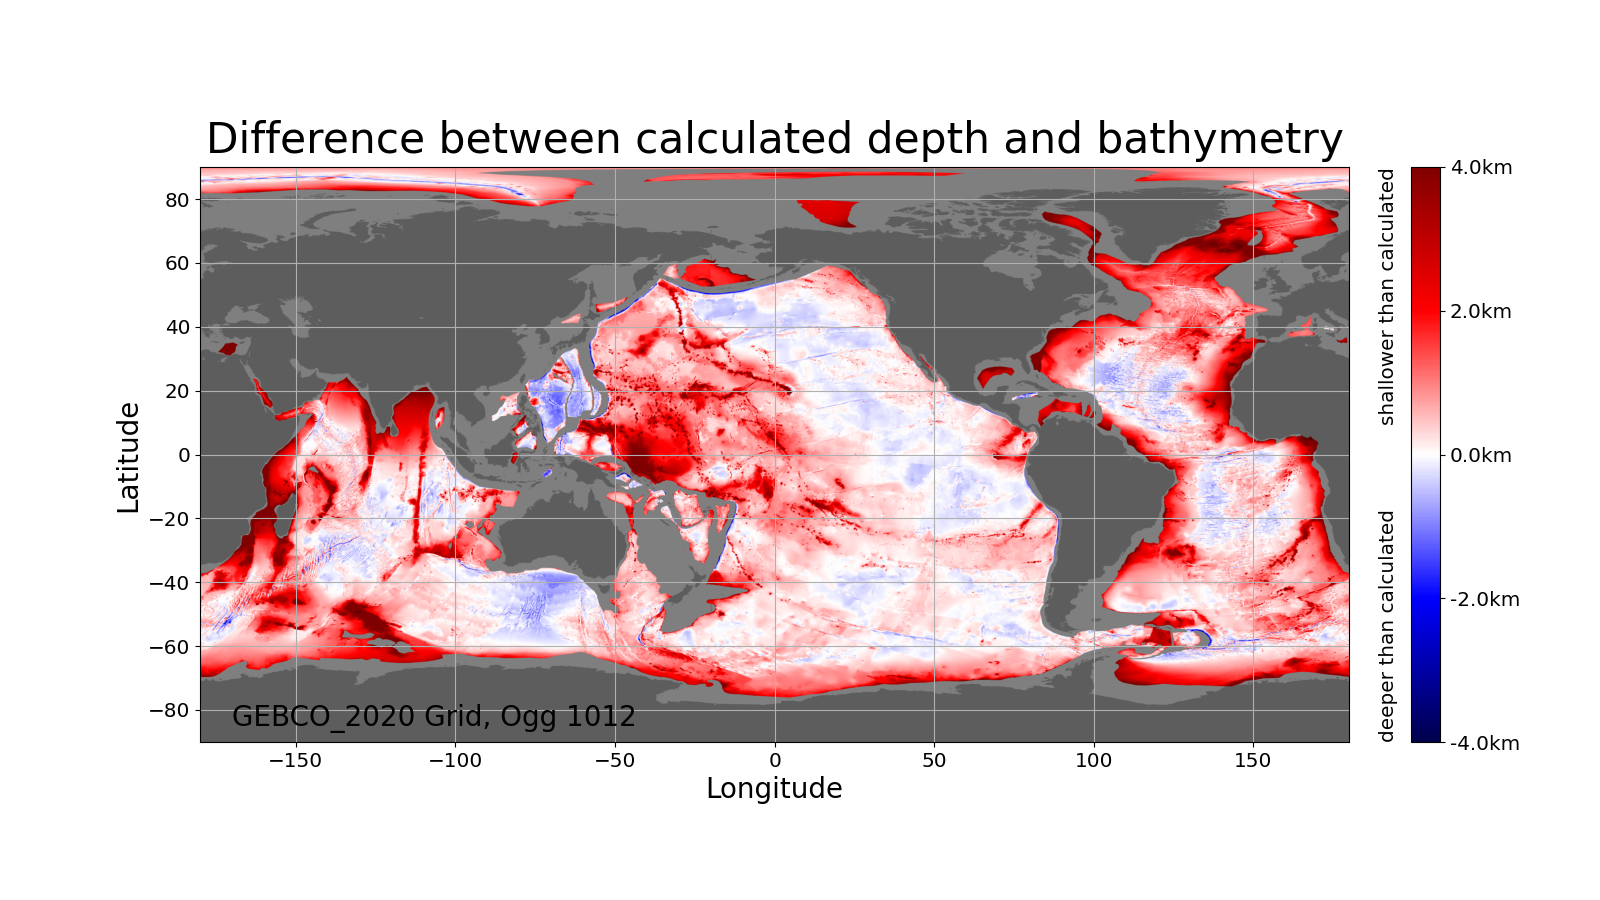
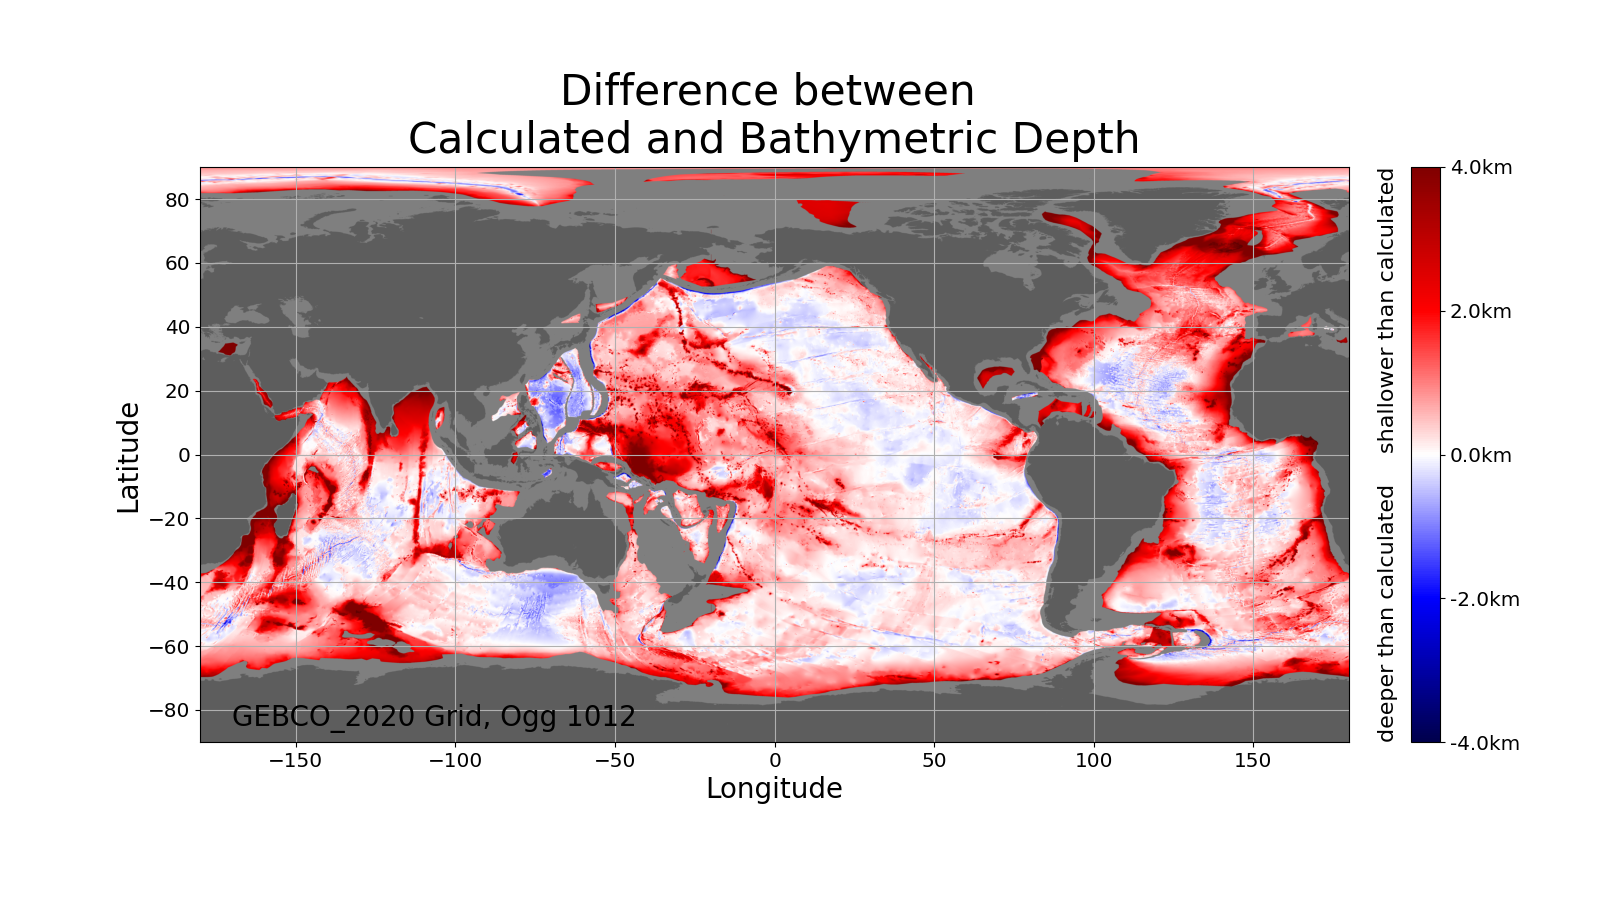
better plots/typo

Changed region(s): [[0.125, 0.0622, 0.8438, 0.1867], [0.8438, 0.1867, 0.875, 0.4978], [0.8438, 0.56, 0.875, 0.8089]]

diff --git a/scripts/plotting.py b/scripts/plotting.py
@@ -11,13 +11,15 @@ import matplotlib.colors as mcolors
 cmap1 = plt.cm.viridis
 cmap2 = plt.cm.turbo_r
 cmap3 = plt.cm.seismic
+cmap_reds = plt.cm.Reds
 cmap_black = mcolors.ListedColormap([0, 0, 0, 0.9])
 continental_color = (0.5, 0.5, 0.5)
-transparent_nan = (0, 0, 0, 0)
+transparent = (0, 0, 0, 0)
 cmap1.set_bad(color=continental_color)  # gives NaN pixels specific color
 cmap2.set_bad(color=continental_color)
 cmap3.set_bad(color=continental_color)
-cmap_black.set_bad(color=transparent_nan)
+cmap_reds.set_bad(color=continental_color)
+cmap_black.set_bad(color=transparent)
 font_axes_scale = 1.8  # axes values
 font_header_scale = 3.8  # factor that scales the header font to the standard font size
 font_label_scale = 2.5  # labels, source(GEBCO)
@@ -105,7 +107,7 @@ def depth_anomaly_map(size):
         aspect=1
     )
     relative_font_size = fig2.get_size_inches()[0] * 0.5  # gets font size relative to figure size
-    plt.title("Difference between calculated depth and bathymetry", fontsize=relative_font_size * font_header_scale,
+    plt.title("Difference between \nCalculated and Bathymetric Depth", fontsize=relative_font_size * font_header_scale,
               pad=10)
     plt.tick_params(labelsize=relative_font_size * font_axes_scale)
     plt.xlabel("Longitude", fontsize=relative_font_size * font_label_scale)
@@ -116,11 +118,53 @@ def depth_anomaly_map(size):
     cbar.set_ticklabels([f"{tick * 0.001}km" for tick in cbar_ticks])  # Convert to km and format
     cbar.ax.tick_params(labelsize=relative_font_size * font_axes_scale)  # modify font size of cbar values
     # cbar.set_label(label="Δ Depth in m", fontsize=relative_font_size*font_label_scale)
-    cbar.ax.text(-relative_font_size * 0.1, 0, "deeper than calculated", fontsize=relative_font_size * font_axes_scale,
+    cbar.ax.text(-relative_font_size * 0.1, 0, "deeper than calculated",
+                 fontsize=relative_font_size * font_text_scale,
                  rotation=90, ha="center", va="bottom", transform=cbar.ax.transAxes)
     cbar.ax.text(-relative_font_size * 0.1, 1, "shallower than calculated",
-                 fontsize=relative_font_size * font_axes_scale,
+                 fontsize=relative_font_size * font_text_scale,
                  rotation=90, ha="center", va="top", transform=cbar.ax.transAxes)
+    plt.grid()
+    plt.text(-170, -85, "GEBCO_2020 Grid, Ogg 1012", fontsize=relative_font_size * font_label_scale)
+    plt.show()
+
+
+# depth absolute anomaly map--------------------------------------------------------------------------------------------
+def depth_abs_anomaly_map(size):
+    ratio = size * 16/9
+    fig2, ax = plt.subplots(figsize=(ratio, size))
+    depth_img = ax.imshow(
+        data.depth_anomaly_abs,
+        extent=[data.a_lon_shift.min(), data.a_lon_shift.max(), data.a_lat.min(), data.a_lat.max()],
+        origin="lower",
+        cmap=cmap_reds,
+        vmin=0,
+        vmax=4000,
+        aspect=1
+    )
+    ax.imshow(
+        data.land_grid,
+        extent=[data.a_lon_shift.min(), data.a_lon_shift.max(), data.a_lat.min(), data.a_lat.max()],
+        origin="lower",
+        cmap=cmap_black,
+        alpha=0.3,
+        aspect=1
+    )
+    relative_font_size = fig2.get_size_inches()[0] * 0.5  # gets font size relative to figure size
+    plt.title("Absolute Difference between\n Calculated and Bathymetric Depth",
+              fontsize=relative_font_size * font_header_scale, pad=10)
+    plt.tick_params(labelsize=relative_font_size * font_axes_scale)
+    plt.xlabel("Longitude", fontsize=relative_font_size * font_label_scale)
+    plt.ylabel("Latitude", fontsize=relative_font_size * font_label_scale)
+    cbar = plt.colorbar(depth_img, ax=ax, fraction=0.0232)
+    cbar_ticks = np.linspace(0, 4000, num=5)  # Choose appropriate tick positions
+    cbar.set_ticks(cbar_ticks)
+    cbar.set_ticklabels([f"{tick * 0.001}km" for tick in cbar_ticks])  # Convert to km and format
+    cbar.ax.tick_params(labelsize=relative_font_size * font_axes_scale)  # modify font size of cbar values
+    # cbar.set_label(label="Δ Depth in m", fontsize=relative_font_size*font_label_scale)
+    cbar.ax.text(-relative_font_size * 0.1, 0.5, "Δ Depth in km",
+                 fontsize=relative_font_size * font_label_scale,
+                 rotation=90, ha="center", va="center", transform=cbar.ax.transAxes)
     plt.grid()
     plt.text(-170, -85, "GEBCO_2020 Grid, Ogg 1012", fontsize=relative_font_size * font_label_scale)
     plt.show()

diff --git a/scripts/data_prep.py b/scripts/data_prep.py
@@ -2,7 +2,7 @@ from scipy.io import netcdf_file
 from scripts import functions
 
 path = "grids/"
-accuracy = 6  # how many minutes° are one grid point (2 or 6)
+accuracy = 2  # how many minutes° are one grid point (2 or 6)
 age_file = netcdf_file(path + f'age.2020.1.GTS2012.{accuracy}m.grd', 'r', mmap=False)
 bathymetry_file = netcdf_file(path + f'GRIDONE_2D_2008_{accuracy}m.nc', mmap=False)
 #print(bathymetry_file.variables.keys())

diff --git a/main.py b/main.py
@@ -1,6 +1,10 @@
 from scripts import plotting
+from scripts import data_prep as data
 
-plotting.depth_anomaly_map(3)
 
 if __name__ == "__main__":
     print("main script")
+
+
+plotting.depth_anomaly_map(9)
+
